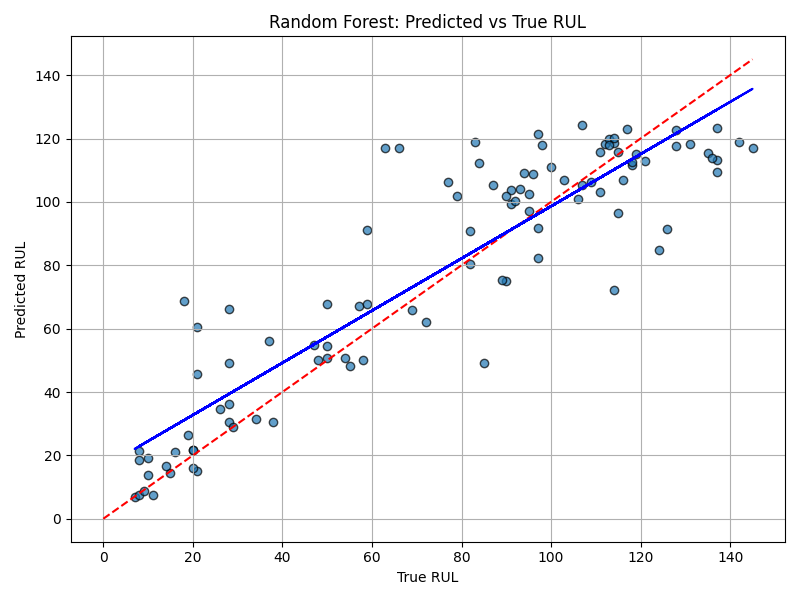
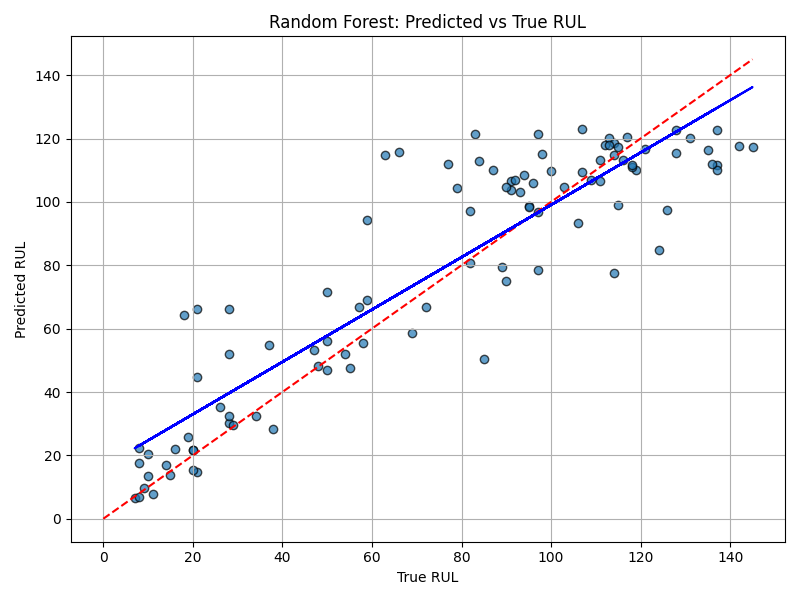
update van de oude python files zodat ze de zelfde hyperparameters hebben als de main model.

diff --git a/xgboost_model.py b/xgboost_model.py
@@ -37,7 +37,7 @@ df_test_last['RUL'] = true_rul.values.flatten()
 X_test = df_test_last[feature_cols]
 y_test = df_test_last['RUL']
 
-xg = XGBRegressor(objective='reg:squarederror', n_estimators=100, learning_rate=0.1, max_depth=6)
+xg = XGBRegressor(objective='reg:squarederror', n_estimators=50, learning_rate=0.1, max_depth=6,random_state=1)
 xg_fit = xg.fit(X_train, y_train)
 
 y_pred = xg_fit.predict(X_test)

diff --git a/regressionforest.py b/regressionforest.py
@@ -57,12 +57,8 @@ y_test = df_test_last['RUL']
 # Step 4: Train the model Random forest
 # -------------------------------
 
-rf = RandomForestRegressor(
-    n_estimators=200,
-    max_depth=20,
-    random_state=42,
-    n_jobs = -1
-)
+rf = RandomForestRegressor(n_estimators=100, max_depth=10, min_samples_leaf=5, n_jobs = -1,random_state=1)
+
 rf.fit(X_train, y_train)
 
 y_pred = rf.predict(X_test)

diff --git a/single_decision_tree.py b/single_decision_tree.py
@@ -55,7 +55,7 @@ y_test = df_test_last['RUL']
 # -------------------------------
 # Step 4: Train single decision tree
 # -------------------------------
-dt = DecisionTreeRegressor(max_depth=10, random_state=42)
+dt = DecisionTreeRegressor(max_depth=10, max_leaf_nodes=20, min_samples_leaf=1, random_state=1)
 dt.fit(X_train, y_train)
 
 # -------------------------------
